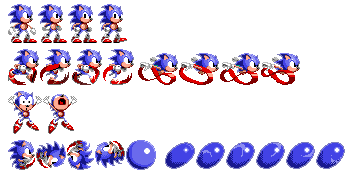
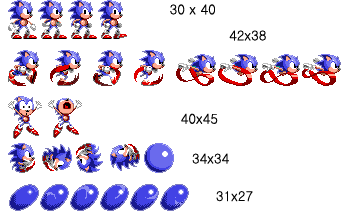
Add character.py

diff --git a/character.py b/character.py
@@ -1,0 +1,103 @@
+from pico2d import *
+import random
+import characters
+
+
+playing = True
+
+class Character:
+    def __init__(self, name, x, y):
+        self.image = load_image('res/{}.png'.format(name))
+        self.character = characters.characters[name]
+
+        self.x = x
+        self.y = y
+        self.speed = 0
+        self.dir = 0
+        self.state = 0
+
+        self.frame = 0
+        self.maxFrame = self.character[self.state]['frame']
+        self.frameSize = (
+            self.character[self.state]['width'],
+            self.character[self.state]['bottom'],
+            self.character[self.state]['width'],
+            self.character[self.state]['height'])
+
+    def set_animation(self):
+        if self.character[self.state] != None:
+            self.maxFrame = self.character[self.state]['frame']
+            self.frameSize = (
+                self.character[self.state]['width'],
+                self.character[self.state]['bottom'],
+                self.character[self.state]['width'],
+                self.character[self.state]['height'],
+            )
+
+    def draw(self):
+        self.set_animation()
+        self.image.clip_draw(8+self.frameSize[0]*self.frame, self.frameSize[1], self.frameSize[2], self.frameSize[3], self.x, self.y,self.character['size'][0], self.character['size'][1])
+
+    def update(self):
+        self.frame = (self.frame + 1) % self.maxFrame
+        self.x += self.speed
+        self.y += self.dir * self.speed
+
+    def handle_events(self):
+        global playing
+        for event in get_events():
+            if event.type == SDL_QUIT:
+                playing = False
+            elif event.type == SDL_KEYDOWN:
+                if event.key == SDLK_ESCAPE:
+                    playing = False
+                elif event.key == SDLK_UP:
+                    self.speed = self.character['speed']
+                    self.dir += 1
+                    self.state = 1
+                elif event.key == SDLK_DOWN:
+                    self.speed = self.character['speed']
+                    self.dir -= 1
+                    self.state = 1
+                elif event.key == SDLK_r:
+                    self.state = 3
+
+            elif event.type == SDL_KEYUP:
+                if event.key == SDLK_UP:
+                    self.dir -= 1
+                elif event.key == SDLK_DOWN:
+                    self.dir += 1
+                elif event.key == SDLK_r:
+                    pass
+
+    
+    def changeCharacter(self):
+        characterList = list(characters.characters.keys())
+        index = random.randint(0, len(characterList)-1)
+        self.character = characters.characters[characterList[index]]
+        
+
+playing = True
+
+open_canvas()
+
+char = Character('sonic', 30, 90)
+map = load_image('res/background.png')
+
+MAP_WIDTH = 800
+MAP_HEIGHT = 600
+
+while playing:
+    clear_canvas()
+    map.draw(MAP_WIDTH // 2,MAP_HEIGHT // 2)
+    char.handle_events()
+    if char.y >= 520:
+        char.y -= char.speed
+    elif char.y <= 80:
+        char.y += char.speed
+    char.update()
+    char.draw()
+    update_canvas()
+    delay(0.05)
+
+close_canvas()

diff --git a/characters.py b/characters.py
@@ -1,0 +1,19 @@
+characters ={
+    'Patrick_Star' : {
+        "size" : [50, 70],
+        0 : {"frame" : 7, "left" : 8, "bottom" : 120, "width" : 30, "height" : 50},     #idle
+        1 : {"frame" : 9, "left" : 8, "bottom" : 60, "width" : 32, "height" : 50},      #run
+        2 : {"frame" : 4, "left" : 8, "bottom" : 0, "width" : 40, "height" : 50},       #sturn
+        3 : None,                                                                       #skill
+        "speed" : 4
+    },
+    'sonic' : {
+        "size" : [50, 70],
+        0 : {"frame" : 4, "bottom" : 174, "width" : 30, "height" : 40},     #idle
+        1 : {"frame" : 8, "bottom" : 126, "width" : 42, "height" : 38},      #run
+        2 : {"frame" : 2, "bottom" : 71, "width" : 40, "height" : 45},       #sturn
+        3 : {"frame" : 5, "bottom" : 37, "width" : 34, "height" : 34},
+        4 : {"frame" : 6, "bottom" : 0, "width" : 31, "height" : 27},
+        "speed" : 5
+    }
+}
